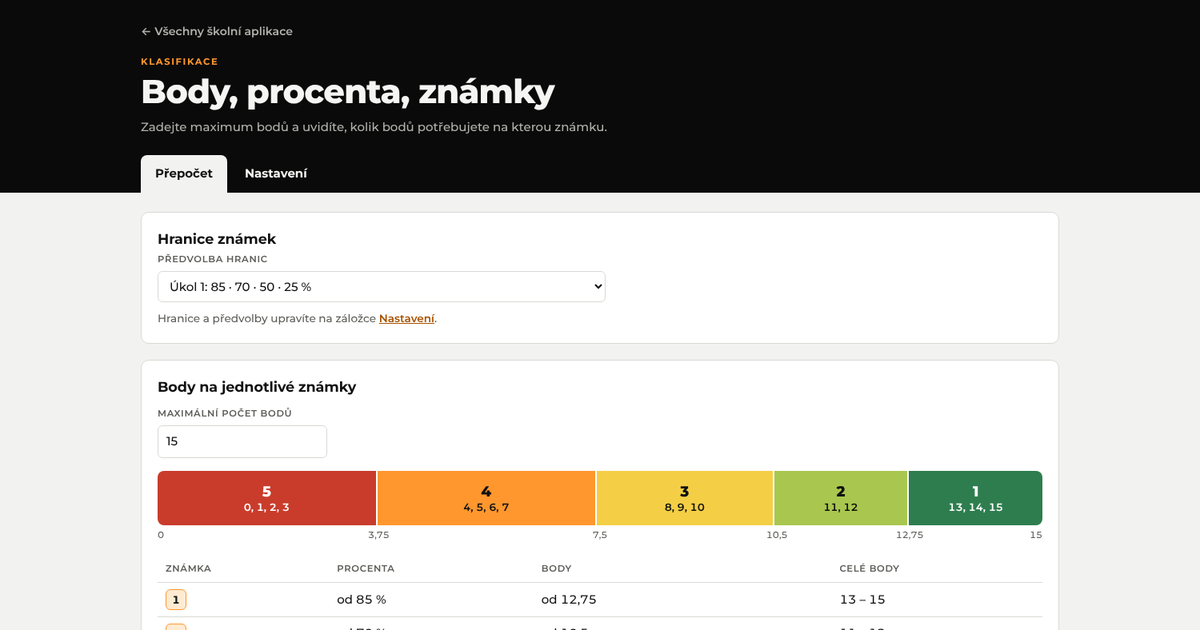
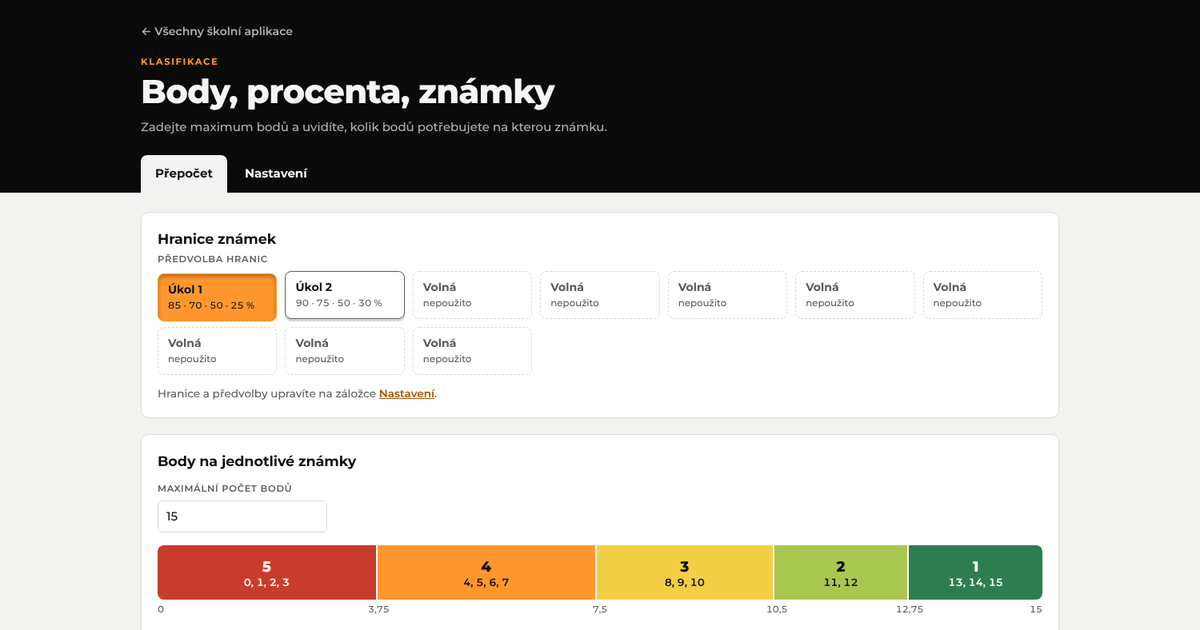
Body, procenta, známky: předvolby jako sada deseti tlačítek
Claude-Session: https://claude.ai/code/session_01HrWVDLTS4qPtvcqQhK2KAo

diff --git a/body-procenta-znamky/index.html b/body-procenta-znamky/index.html
@@ -110,7 +110,12 @@ body {
 .tab:hover { background: rgba(255,255,255,.1); }
 .tab[aria-current="page"] { background: var(--bg); color: var(--ink); }
 .tab:focus-visible { outline-color: var(--accent); outline-offset: -2px; }
-.pick { max-width: 560px; }
+.pbtns { display: grid; grid-template-columns: repeat(auto-fill, minmax(132px, 1fr)); gap: 10px; padding-bottom: 3px; }
+.pbtn { font: inherit; text-align: left; padding: 9px 12px; border-radius: 8px; border: 1px solid var(--muted); background: var(--surface); color: var(--ink); cursor: pointer; display: grid; gap: 1px; min-width: 0; box-shadow: 0 3px 0 var(--line); }
+.pbtn:hover:not(:disabled):not([aria-pressed="true"]) { background: var(--surface-2); }
+.pbtn[aria-pressed="true"] { background: var(--accent); border-color: var(--accent); color: var(--accent-ink); box-shadow: inset 0 3px 5px rgba(0,0,0,.3); transform: translateY(3px); }
+.pbtn[aria-pressed="true"] .pv { color: var(--accent-ink); }
+.pbtn:disabled { background: transparent; border: 1px dashed var(--line); color: var(--muted); box-shadow: none; cursor: default; }
 .pick-note { margin: 10px 0 0; font-size: .85rem; color: var(--muted); }
 .pick-note a { color: var(--accent-text); font-weight: 600; }
 .back { margin: 0 0 18px; }
@@ -272,9 +277,9 @@ input[type="checkbox"] { accent-color: var(--accent); width: 18px; height: 18px;
   <section id="v-prepocet" class="stack" aria-label="Přepočet">
     <div class="card">
       <h2>Hranice známek</h2>
-      <div class="pick field">
-        <label class="lbl" for="c-preset">Předvolba hranic</label>
-        <select id="c-preset"></select>
+      <div class="field">
+        <span class="lbl" id="c-preset-lbl">Předvolba hranic</span>
+        <div class="pbtns" id="c-presets" role="group" aria-labelledby="c-preset-lbl"></div>
       </div>
       <p class="pick-note" id="c-pnote"></p>
     </div>
@@ -596,31 +601,38 @@ input[type="checkbox"] { accent-color: var(--accent); width: 18px; height: 18px;
     if (S.presets.length >= MAXP) $('#pr-msg').textContent = 'Je uloženo deset předvoleb. Jednu přepište nebo smažte.';
     syncPresetSelect();
   }
+  function pickPreset(i) {
+    var p = S.presets[i];
+    if (!p) return;
+    S.sel = i; S.t = clampT(p.p);
+    $('#pr-name').value = p.n;
+    dials.forEach(function (d, k) { refreshDial(k); });
+    $('#pr-msg').textContent = '';
+    onThresholds();
+  }
   function syncPresetSelect() {
-    var sel = $('#c-preset'), cur = S.sel >= 0 ? S.presets[S.sel] : null;
+    var box = $('#c-presets'), cur = S.sel >= 0 ? S.presets[S.sel] : null;
     var custom = !cur || !samePct(cur.p, S.t);
-    sel.textContent = '';
-    if (custom) sel.appendChild(mk('option', { value: '-1', text: 'Vlastní hranice: ' + S.t.join(' · ') + ' %' }));
-    S.presets.forEach(function (p, i) {
-      sel.appendChild(mk('option', { value: String(i), text: p.n + ': ' + p.p.join(' · ') + ' %' }));
-    });
-    sel.value = custom ? '-1' : String(S.sel);
+    var ae = document.activeElement, focusIdx = (ae && ae.parentNode === box) ? Array.prototype.indexOf.call(box.children, ae) : -1;
+    box.textContent = '';
+    for (var i = 0; i < MAXP; i++) {
+      var p = S.presets[i];
+      var b = mk('button', { type: 'button', cls: 'pbtn', 'aria-pressed': (p && !custom && S.sel === i) ? 'true' : 'false' },
+        p ? [mk('span', { cls: 'pn', text: p.n }), mk('span', { cls: 'pv', text: p.p.join(' · ') + ' %' })]
+          : [mk('span', { cls: 'pn', text: 'Volná' }), mk('span', { cls: 'pv', text: 'nepoužito' })]);
+      if (!p) b.disabled = true;
+      else (function (k) { b.addEventListener('click', function () { pickPreset(k); }); })(i);
+      box.appendChild(b);
+    }
+    if (focusIdx >= 0 && box.children[focusIdx] && !box.children[focusIdx].disabled) box.children[focusIdx].focus();
     var note = $('#c-pnote'); note.textContent = '';
-    var msg = S.presets.length ? 'Hranice a předvolby upravíte na záložce ' : 'Zatím nemáte uloženou žádnou předvolbu. Uložíte ji na záložce ';
+    var msg = custom ? 'Vlastní hranice: ' + S.t.join(' · ') + ' %. ' : '';
+    msg += S.presets.length ? 'Hranice a předvolby upravíte na záložce ' : 'Zatím nemáte uloženou žádnou předvolbu. Uložíte ji na záložce ';
     note.appendChild(document.createTextNode(msg));
     note.appendChild(mk('a', { href: '#nastaveni', text: 'Nastavení' }));
     note.appendChild(document.createTextNode('.' + (S.floor ? ' Hranice bodů se zaokrouhlují dolů.' : '')));
   }
   function bindPresets() {
-    $('#c-preset').addEventListener('change', function (e) {
-      var i = Number(e.target.value), p = S.presets[i];
-      if (!p) return;
-      S.sel = i; S.t = clampT(p.p);
-      $('#pr-name').value = p.n;
-      dials.forEach(function (d, k) { refreshDial(k); });
-      $('#pr-msg').textContent = '';
-      onThresholds();
-    });
     $('#pr-new').addEventListener('click', function () {
       if (S.presets.length >= MAXP) return;
       var n = $('#pr-name').value.trim() || 'Předvolba ' + (S.presets.length + 1);
